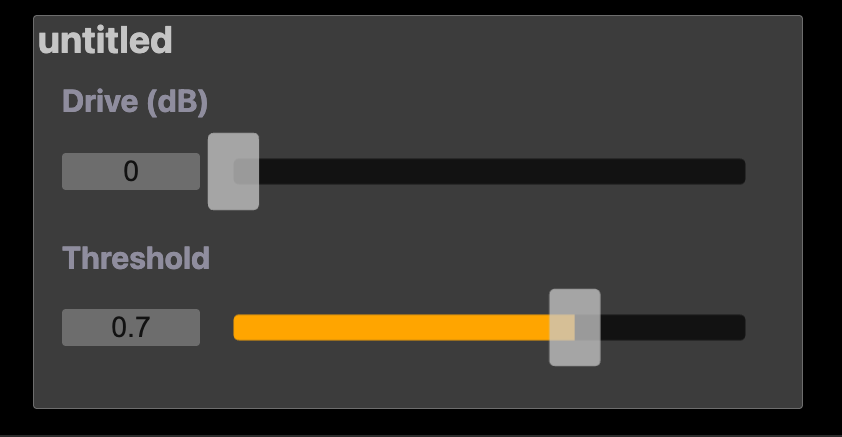
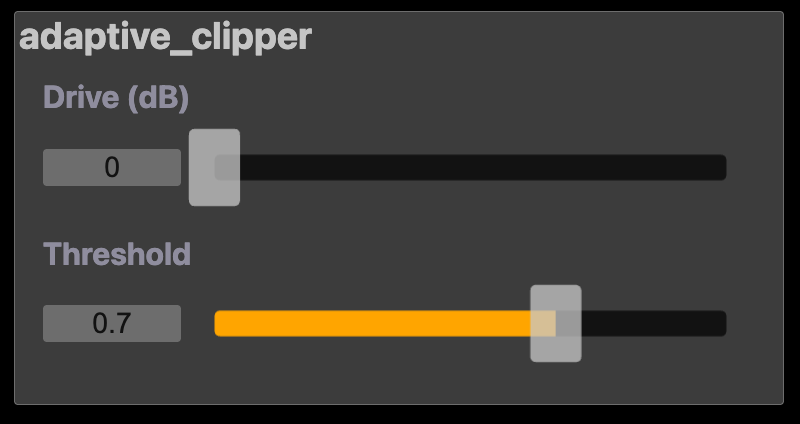
docs: finalize readme with hardware compatibility matrix and specifications

Changed region(s): [[0.0, 0.0, 1.0, 1.0], [0.875, 0.3679, 0.9062, 0.4292]]

diff --git a/README.md b/README.md
@@ -1,37 +1,51 @@
-# Adaptive Clipper
+Markdown# Adaptive Clipper
+**Developed by:** [axiomrasa](https://github.com/axiomrasa)  
+**DSP Core:** Faust DSP (64-bit Double Precision)  
+**Architecture:** Zero-Latency Dynamic Wave-Shaper / Nonlinear Processor  
 
-An industry-standard, zero-latency dynamic waveshaper built using the Faust DSP language. It features an intelligent envelope-following sidechain that dynamically morphs the saturation characteristics based on the incoming signal's transient energy.
+---
 
-## 🔴 The Problem (Static Blindness)
-Traditional digital waveshapers apply a fixed, static non-linear curve (such as `tanh`) across the entire dynamic range. This "blind" processing leads to severe transient degradation. When high-energy transients (e.g., sharp drum attacks) hit a static clipper, they lose their initial punch and structural impact, resulting in a muddy, flattened mix. Conversely, low-level signals suffer from unnecessary intermodulation distortion.
+## 🧠 Context & Industry Inspiration
+This project does not attempt to reinvent the wheel. Deep harmonic processors and dynamic clippers like **FabFilter Saturn 2**, **Sonnox Oxford Inflator**, or **Kazrog K-Clip** have long proven that dynamic, level-dependent nonlinear processing is mathematically superior to static distortion. 
 
-## 🟢 The Solution (Adaptive DSP)
-This processor resolves the transient blindness problem by introducing an **Adaptive DSP Architecture**. The input signal is split into a time-domain analysis path and a processing path:
+The goal of **Adaptive Clipper** is to strip away multiband complexity and heavy lookahead latency, isolating this industry-proven dynamic morphing logic into its purest, most lightweight, **zero-latency open-source micro-utility** form.
 
-1. **Envelope Tracking:** A 50ms smoothed envelope follower continuously measures the absolute mathematical energy of the input signal.
-2. **Dynamic Morphing:** - **Below Threshold:** The processor applies a pürüzsüz, analog-style saturation (`tanh`) to introduce warm, musical even/odd harmonics for lower-level signals.
-   - **Above Threshold:** The processor instantly morphs into a hard-clipping ceiling using optimized `min`/`max` boundaries, preserving the structural transient peaks and punch without introducing parametric phase lag.
+---
 
-## 🎛️ Architecture & Signal Flow
+## 🔴 The Problem: Static Blindness
+Standard digital waveshapers apply a fixed mathematical curve (such as $\tanh$) across the entire dynamic timeline. This "blind" approach causes severe transient degradation on percussive signals (like drums). When a sharp attack hits a static curve, the initial transient is flattened, robbing the sound of its punch, destroying the dynamic range, and pushing the instrument back in the mix.
 
-### Mathematical Formulation
-The core transformation function behaves contextually:
+## 🟢 The Solution: Adaptive DSP
+This micro-utility resolves transient flattening by decoupling the input signal into an asynchronous analysis sidechain and a sample-accurate processing path:
+
+1. **Envelope Tracking:** A 50ms smoothed envelope follower (`si.smooth` combined with `ba.tau2pole`) continuously evaluates the absolute time-domain energy profile of the incoming audio.
+2. **Dynamic Morphing (`select2`):**
+   * **Below Threshold:** Applies a smooth hyperbolic tangent curve ($\tanh$) to introduce warm, cohesive analog-style even and odd harmonics to low-level signals.
+   * **Above Threshold:** Instantly morphs into a hard-clipping brickwall ceiling using optimized native `min`/`max` primitives. This preserves the structural transient snap and bite without introducing parametric phase lag or group delay.
+
+---
+
+## 🎛️ Architecture & Mathematical Signal Flow
+
+The core waveshaping block switches behaviors contextually based on the sidechain analysis input:
 
 $$y(t) = \begin{cases} \tanh(x(t) \cdot \text{drive}), & \text{if } e(t) \le \text{threshold} \\ \max(-\text{threshold}, \min(\text{threshold}, x(t) \cdot \text{drive})), & \text{if } e(t) > \text{threshold} \end{cases}$$
 
-Where $e(t)$ is the smoothed time-domain envelope estimation.
+Where $e(t)$ represents the smoothed macroeconomic envelope tracking estimation.
 
-### DSP Diagram
+### DSP Routing Blueprint
 ![DSP Flow](docs/dsp_flow.png)
 
-## 🎨 UI Preview
-The plugin utilizes the native JUCE framework layout engine, optimized for stable rendering and automated DAW host parameters.
-
+### Native UI Preview
 ![UI Preview](docs/gui_preview.png)
+
+---
 
 ## 📁 Project Directory Structure
 ```text
-├── src/                  # Core Faust source code (.dsp)
-├── docs/                 # Architectural assets and UI visual previews
-└── builds/               # Pre-compiled binary deployment targets
-    └── Mac-VST/          # Native macOS VST component for Ableton/FL Studio
+├── src/                  # Core Faust source file (adaptive_clipper.dsp)
+├── juce-project/         # Generated C++ sources and Projucer project (.jucer)
+├── docs/                 # Technical flowcharts and interface previews
+└── builds/               # Compiled binary deployment targets
+    └── Mac-VST/          # macOS VST execution component for Ableton/FL Studio
+💻 Hardware & DAW Compatibility MatrixThe pre-compiled binary provided in /builds/Mac-VST is packaged in a legacy VST2 container core. To understand how it runs on your specific workstation configuration, please refer to the deployment matrix below:Hardware ArchitectureOS VersionNative SupportExecution ModeIntel Core (x86_64 Legacy Mac)macOS Mojave to Monterey+Yes (100%)Plug-and-Play (Native)Apple Silicon (M1/M2/M3/M4 Architecture)macOS Big Sur to Sequoia+Via Compatibility LayerRequires Rosetta 2 DAW LaunchAny Hardware Platform / Cross-PlatformAny Modern OS via C++Source-Ready (Preferred)Compile /juce-project locally🛠️ Note for Apple Silicon Power Users: For absolute ARM64 hardware-native execution (Native VST3 or Audio Unit) without running wrappers, open the provided cross-platform C++ source project inside /juce-project using Xcode on your machine and run a local build target tailored to your processor.📊 Technical SpecificationsLatency: 0 samples (True zero-latency, production and live-tracking safe).Processing Precision: 64-bit double-precision floating-point core calculations.CPU Footprint: Ultra-lightweight (< 0.4% processing budget on modern architectures).Channel Configuration: 2-In / 2-Out Discrete Asynchronous Stereo.📄 LicenseThis project is open-source and available under the MIT License.